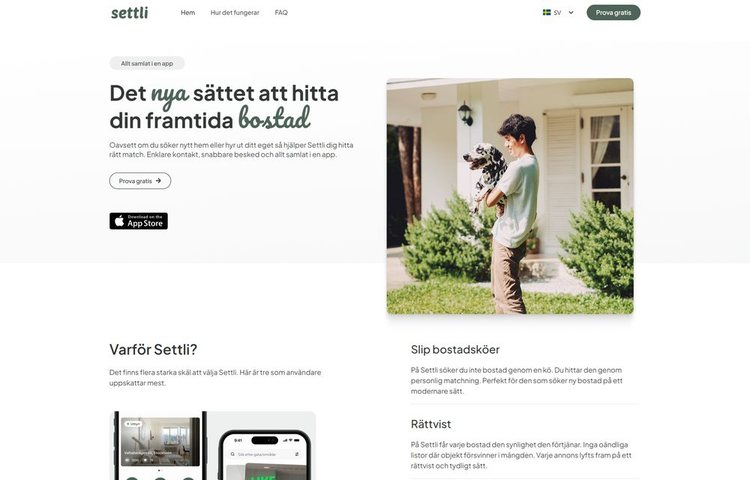
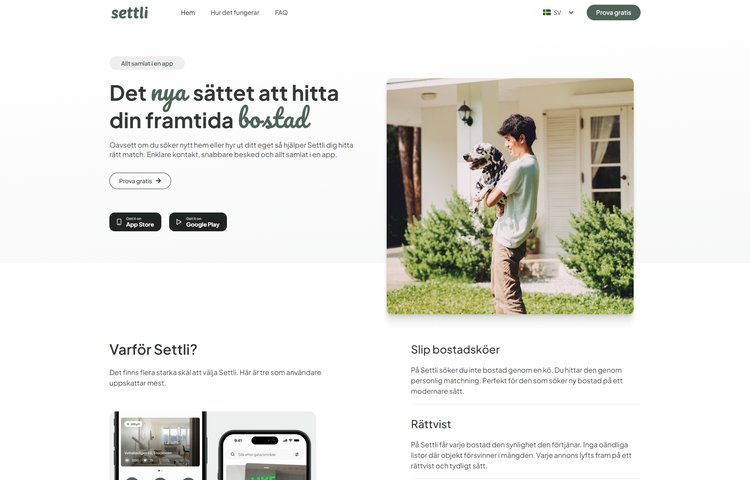
settli.se: new full-page screenshot
Claude-Session: https://claude.ai/code/session_01Lrp22X81SSkMfFXxYDmhoC

Changed region(s): [[0.1227, 0.4375, 0.3067, 0.5]]

diff --git a/work/settli-se.html b/work/settli-se.html
@@ -491,7 +491,7 @@
     <div><h1>settli.se</h1><p class="lead">the marketing website for settli, explaining how the app works for tenants and landlords.</p></div>
   </header>
   <div class="pinfo"><div class="side"><h2>my role</h2><ul><li>designer</li></ul><h2>tools</h2><ul><li>figma</li><li>wordpress</li></ul><h2>timeline</h2><ul><li>2025</li></ul></div><div class="ctx"><h2>context</h2><p>the website introduces settli and gets people to download the app. it explains why settli is different, how it works step by step, and answers common questions.</p><a class="pill soft site-btn" href="https://settli.se/" target="_blank" rel="noopener">website <svg viewBox="0 0 16 16"><path d="M5 11l6-6M6 5h5v5" fill="none" stroke="currentColor" stroke-width="1.6" stroke-linecap="round" stroke-linejoin="round"/></svg></a></div></div>
-  <div class="pv pv-site"><div class="browser"><div class="bar"><i></i><i></i><i></i><span class="url">settli.se</span></div><div class="bview"><img src="../img/settlise-full.jpg" alt="settli.se, full page" loading="eager"></div></div><p class="pv-hint">scroll inside the window to see the whole page</p></div>
+  <div class="pv pv-site"><div class="browser"><div class="bar"><i></i><i></i><i></i><span class="url">settli.se</span></div><div class="bview"><img src="../img/settlise-full.jpg?v=2" alt="settli.se, full page" loading="eager"></div></div><p class="pv-hint">scroll inside the window to see the whole page</p></div>
   <a class="pnext" href="poster-art.html"><span><small>next project</small><b>poster art</b></span><span class="go2"><svg viewBox="0 0 16 16"><path d="M3 8h10M9 4l4 4-4 4" fill="none" stroke="currentColor" stroke-width="1.6" stroke-linecap="round" stroke-linejoin="round"/></svg></span></a>
 
   <section class="contact" id="contact">

diff --git a/work.html b/work.html
@@ -532,7 +532,7 @@
           <div><h3>settli.se</h3><p>the marketing website for settli: how it works, digital contracts and faq</p></div>
           <a class="go" href="work/settli-se.html" aria-label="Read about settli.se"><svg viewBox="0 0 24 24"><path d="M7 17L17 7M9 7h8v8"/></svg></a>
         </header>
-        <div class="wc-show"><div class="browser live"><div class="bar"><i></i><i></i><i></i><span class="url">settli.se</span></div><div class="bview"><img src="img/settlise-full.jpg" alt="settli.se website, full page: hero, why Settli, how it works, digital contracts and FAQ" loading="eager" width="1000" height="2610"></div></div></div>
+        <div class="wc-show"><div class="browser live"><div class="bar"><i></i><i></i><i></i><span class="url">settli.se</span></div><div class="bview"><img src="img/settlise-full.jpg?v=2" alt="settli.se website, full page: hero, why Settli, how it works, digital contracts and FAQ" loading="eager" width="1000" height="2610"></div></div></div>
         <div class="meta"><div><h3>settli.se</h3><p>marketing website</p></div><span class="yr">2025</span><svg class="si red" aria-label="ui and web"><use href="#diamond"/></svg></div>
       </article>
       <article data-href="work/poster-art.html" class="item wcard" data-d="print" style="view-transition-name:p9">

diff --git a/index.html b/index.html
@@ -451,7 +451,7 @@
           <div class="fx" style="--fbg:#F5EEDC;--fbgd:#1B2220">
             <span class="fx-mark">settli.se</span>
             <span class="fx-cta">See project <svg viewBox="0 0 16 16"><path d="M3 8h10M9 4l4 4-4 4" fill="none" stroke="currentColor" stroke-width="1.6" stroke-linecap="round" stroke-linejoin="round"/></svg></span>
-            <div class="fx-web"><span class="fx-bar"><i></i><i></i><i></i></span><img src="img/show-settlise.jpg" alt=""></div>
+            <div class="fx-web"><span class="fx-bar"><i></i><i></i><i></i></span><img src="img/show-settlise.jpg?v=2" alt=""></div>
           </div>
           <div class="ftext"><h3>settli.se: the website behind the app</h3><p>explains matching, digital contracts and the faq for tenants and landlords</p></div>
         </a>
